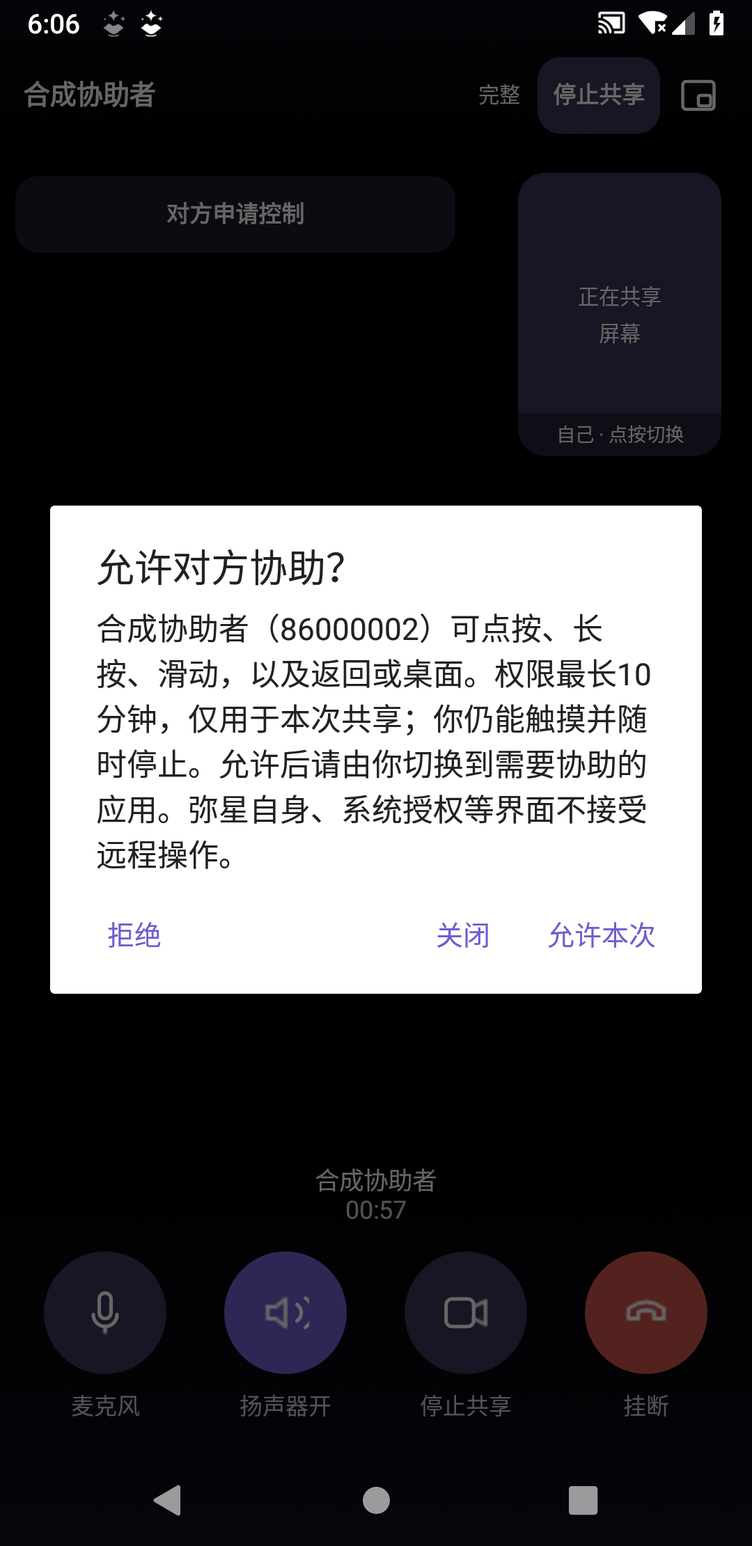
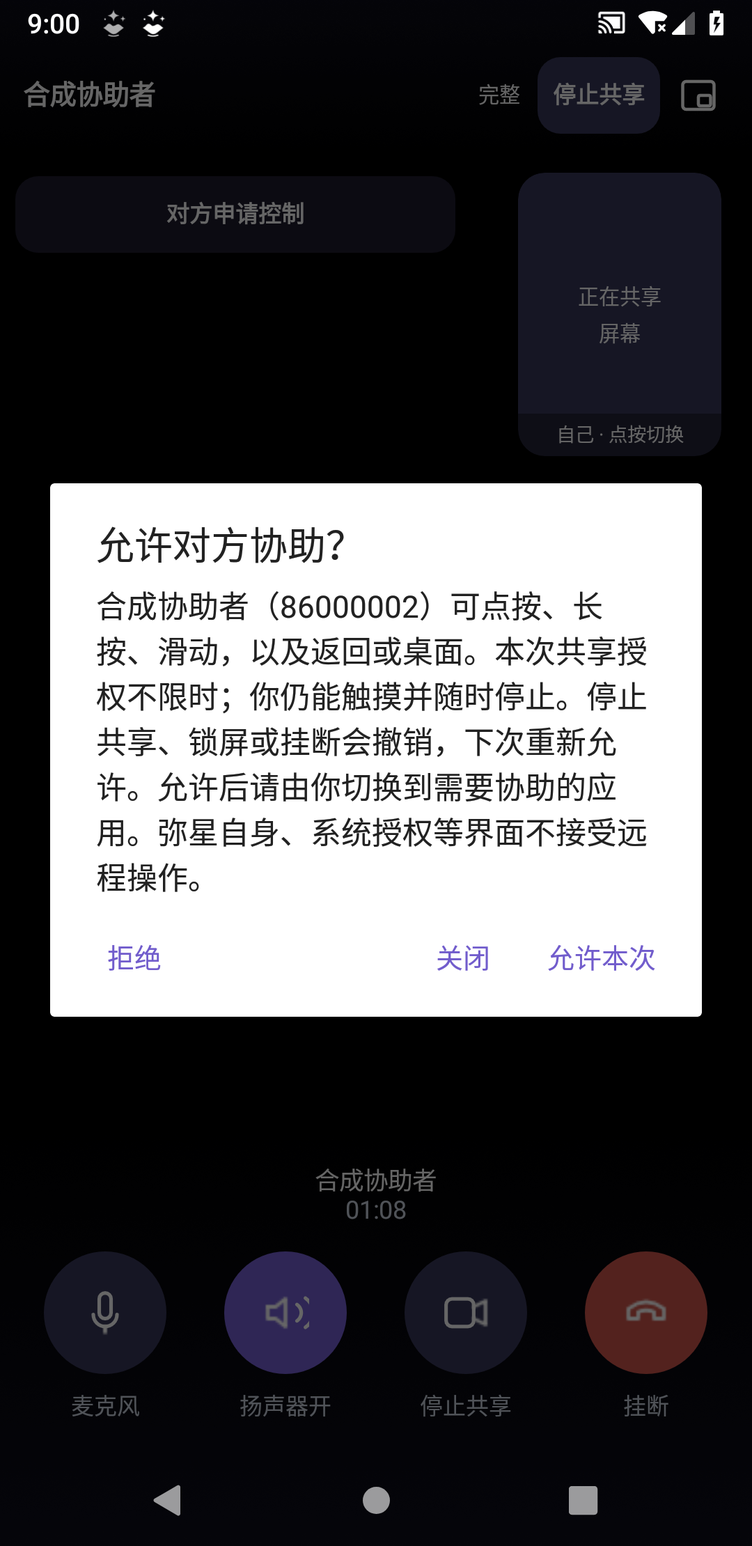
Allow unlimited remote assistance within the current shared-screen session

diff --git a/android/app/src/main/java/cn/qingliao/app/RemoteAssist.kt b/android/app/src/main/java/cn/qingliao/app/RemoteAssist.kt
@@ -10,7 +10,7 @@ import java.util.concurrent.atomic.AtomicBoolean
 import kotlin.math.abs
 
 /** One peer, one explicitly approved direction. Leases live only in this accepted call/engine. */
-internal class RemoteAssist(private val engine:RtcEngine){
+internal class RemoteAssist(private val engine:RtcEngine,private val clock:()->Long=SystemClock::elapsedRealtime){
     private val session=Hub.token
     private val owner=Hub.me.optString("id")
     private val peer=Hub.callUser.optString("id")
@@ -28,7 +28,7 @@ internal class RemoteAssist(private val engine:RtcEngine){
     private var requestUntil=0L
     private var lastRequestAt=-10000L
     private var lastPeerRequestAt=-10000L
-    private data class Lease(val id:String,val request:String,val share:String,val geometry:AssistWire.Geometry,val until:Long,var sequence:Int=0,var lastAction:Long=-10000,var ticket:String="",var ticketAt:Long=0,var previousTicket:String="",var previousAt:Long=0,var confirmed:Boolean=false)
+    private data class Lease(val id:String,val request:String,val share:String,val geometry:AssistWire.Geometry,val ackUntil:Long=0,var sequence:Int=0,var lastAction:Long=-10000,var ticket:String="",var ticketAt:Long=0,var previousTicket:String="",var previousAt:Long=0,var confirmed:Boolean=false)
     private var local:Lease?=null
     private var remote:Lease?=null
     private var waitingUntil=0L
@@ -44,19 +44,18 @@ internal class RemoteAssist(private val engine:RtcEngine){
     val geometry get()=remote?.geometry
     internal fun authorizes(lease:String,geometry:AssistWire.Geometry):Boolean {
         val l=local?:return false
-        return current()&&l.confirmed&&l.id==lease&&l.geometry==geometry&&SystemClock.elapsedRealtime()<l.until&&ScreenSharing.controlShareId(engine)==l.share
+        return current()&&l.confirmed&&l.id==lease&&l.geometry==geometry&&ScreenSharing.controlShareId(engine)==l.share
     }
     private val tick=object:Runnable{override fun run(){
         if(closed)return
         if(!bound()){stopAll("通话状态已改变");return}
         sharingChanged()
-        val now=SystemClock.elapsedRealtime()
-        if(local?.let{!it.confirmed&&now>it.until-AssistWire.LEASE_MS+5000}==true)stopHosting("对方未确认连接，授权已结束")
+        val now=clock()
+        if(local?.let{!it.confirmed&&now>it.ackUntil}==true)stopHosting("对方未确认连接，授权已结束")
         if(!peerSupported&&helloCount<3&&now-helloAt>1000&&send("hello")){helloCount++;helloAt=now}
         local?.let{l->if(now-l.ticketAt>=1000){l.previousTicket=l.ticket;l.previousAt=l.ticketAt;l.ticket=id();l.ticketAt=now;send("ticket",JSONObject().put("lease",l.id).put("ticket",l.ticket))}}
         if(incomingRequest.isNotEmpty()&&now>incomingUntil){incomingRequest="";changed()}
         if(requestId.isNotEmpty()&&now>requestUntil){requestId="";note="申请已过期，可重新申请";changed()}
-        if(remote?.until?.let{now>it}==true)stopControlling("控制授权已到期")
         if(waitingUntil>0&&now>waitingUntil)stopControlling("操作未确认，已停止控制")
         Hub.main.postDelayed(this,500)
     }}
@@ -86,7 +85,7 @@ internal class RemoteAssist(private val engine:RtcEngine){
     private fun send(type:String,body:JSONObject=JSONObject()):Boolean{
         val c=channel?:return false
         if(closed||!bound()||c.state()!=DataChannel.State.OPEN||c.bufferedAmount()>4096)return false
-        body.put("v",1).put("t",type).put("call",call)
+        body.put("v",AssistWire.VERSION).put("t",type).put("call",call)
         val raw=body.toString().toByteArray();if(raw.size>AssistWire.MAX_BYTES)return false
         return runCatching{c.send(DataChannel.Buffer(ByteBuffer.wrap(raw),false))}.getOrDefault(false)
     }
@@ -96,27 +95,27 @@ internal class RemoteAssist(private val engine:RtcEngine){
         if(closed)return
         val share=if(current())ScreenSharing.controlShareId(engine)else null
         local?.let{lease->
-            if(share!=lease.share||!AssistAccessibilityService.available()||!AssistAccessibilityService.unlocked()||AssistAccessibilityService.geometry()!=lease.geometry||SystemClock.elapsedRealtime()>lease.until)stopHosting("协助授权已结束")
+            if(share!=lease.share||!AssistAccessibilityService.available()||!AssistAccessibilityService.unlocked()||AssistAccessibilityService.geometry()!=lease.geometry)stopHosting("协助授权已结束")
         }
         if(remote!=null&&(!current()||engine.remoteVideoMode!="screen"))stopControlling("共享或通话连接已改变")
         val offer=current()&&share!=null&&!hosting&&!controlling
         if(lastOffer!=offer){if(send("offer",JSONObject().put("ready",offer))){lastOffer=offer;changed()}}
     }
     fun requestControl():Boolean {
-        val now=SystemClock.elapsedRealtime()
+        val now=clock()
         if(!current()||!peerSupported||!peerOffers||hosting||controlling||pending||now-lastRequestAt<10000)return false
         lastRequestAt=now;val request=id()
         if(!send("request",JSONObject().put("request",request)))return false
         requestId=request;requestUntil=now+120000;note="等待对方允许";changed();return true
     }
     fun allow(request:String):Boolean{
-        if(!AssistWire.id(request)||!current()||!peerSupported||incomingRequest!=request||SystemClock.elapsedRealtime()>incomingUntil||hosting||controlling||!Hub.foreground||!AssistAccessibilityService.available()||!AssistAccessibilityService.unlocked())return false
+        if(!AssistWire.id(request)||!current()||!peerSupported||incomingRequest!=request||clock()>incomingUntil||hosting||controlling||!Hub.foreground||!AssistAccessibilityService.available()||!AssistAccessibilityService.unlocked())return false
         val share=ScreenSharing.controlShareId(engine)?:return false
-        val lease=Lease(id(),request,share,AssistAccessibilityService.geometry(),SystemClock.elapsedRealtime()+AssistWire.LEASE_MS)
-        lease.ticket=id();lease.ticketAt=SystemClock.elapsedRealtime()
+        val lease=Lease(id(),request,share,AssistAccessibilityService.geometry(),ackUntil=clock()+5000)
+        lease.ticket=id();lease.ticketAt=clock()
         if(!AssistAccessibilityService.begin(this,lease.id))return false
         local=lease
-        if(!send("grant",JSONObject().put("request",request).put("lease",lease.id).put("geometry",lease.geometry.json()).put("ttl",AssistWire.LEASE_MS.toInt()).put("ticket",lease.ticket))){local=null;AssistAccessibilityService.end(this);return false}
+        if(!send("grant",JSONObject().put("request",request).put("lease",lease.id).put("geometry",lease.geometry.json()).put("ttl",0).put("ticket",lease.ticket))){local=null;AssistAccessibilityService.end(this);return false}
         incomingRequest="";note="对方可协助操作，随时可以停止";changed();return true
     }
     fun deny(){val request=incomingRequest;incomingRequest="";if(request.isNotEmpty())send("deny",JSONObject().put("request",request));note="已拒绝本次申请";changed()}
@@ -131,48 +130,49 @@ internal class RemoteAssist(private val engine:RtcEngine){
     private fun stopAll(reason:String){stopHosting(reason);stopControlling(reason);incomingRequest="";peerOffers=false;changed()}
     fun canTouchPeer():Boolean {
         val r=remote?:return false;val size=engine.remoteFrameSize
-        return current()&&Hub.foreground&&engine.remoteVideoMode=="screen"&&SystemClock.elapsedRealtime()<r.until&&size.first>0&&size.second>0&&SystemClock.elapsedRealtime()-engine.remoteFrameAt<2000&&abs(size.first.toDouble()/size.second-r.geometry.width.toDouble()/r.geometry.height)<.02
+        return current()&&Hub.foreground&&engine.remoteVideoMode=="screen"&&size.first>0&&size.second>0&&SystemClock.elapsedRealtime()-engine.remoteFrameAt<2000&&abs(size.first.toDouble()/size.second-r.geometry.width.toDouble()/r.geometry.height)<.02
     }
     fun sendInput(input:AssistWire.Input):Boolean{
-        val lease=remote?:return false;val now=SystemClock.elapsedRealtime()
+        val lease=remote?:return false;val now=clock()
         if(!canTouchPeer()||waitingUntil>0||now-lease.lastAction<300){note="画面更新或操作处理中，请稍后再试";feedback(note);return false}
+        if(lease.sequence==Int.MAX_VALUE){stopControlling("操作序号已用尽，请重新申请");return false}
         val sequence=lease.sequence+1
         if(!send("input",JSONObject().put("lease",lease.id).put("s",sequence).put("ticket",lease.ticket).put("input",input.json()))){stopControlling("协助连接不可用");return false}
         lease.sequence=sequence;lease.lastAction=now;waitingUntil=now+3000;return true
     }
     private fun receive(p:JSONObject){
-        require(bound()&&p.get("v")==1&&p.getString("call")==call)
+        require(bound()&&p.get("v")==AssistWire.VERSION&&p.getString("call")==call)
         val kind=p.getString("t");val base=setOf("v","t","call")
         fun fields(vararg extra:String)=AssistWire.keys(p,base+extra)
         fun nonce(key:String)=p.getString(key).also{require(AssistWire.id(it))}
         when(kind){
             "hello"->{fields();if(!peerSupported){peerSupported=true;send("hello");lastOffer=null;sharingChanged()}}
             "offer"->{fields("ready");require(p.get("ready") is Boolean);val ready=p.getBoolean("ready");if(peerOffers!=ready){peerOffers=ready;changed()}}
-            "request"->{fields("request");val request=nonce("request");val now=SystemClock.elapsedRealtime()
+            "request"->{fields("request");val request=nonce("request");val now=clock()
                 if(current()&&peerSupported&&ScreenSharing.controlShareId(engine)!=null&&!hosting&&!controlling&&now-lastPeerRequestAt>=10000){lastPeerRequestAt=now;incomingRequest=request;incomingUntil=now+120000;note="对方申请协助控制，请由你确认";changed()}
                 else send("deny",JSONObject().put("request",request))
             }
             "deny"->{fields("request");if(nonce("request")==requestId){requestId="";note="对方未允许本次控制";feedback(note)}}
             "cancel"->{fields("request");val request=nonce("request");if(incomingRequest==request){incomingRequest="";note="对方已取消申请";changed()};if(local?.request==request)stopHosting("对方已取消申请")}
-            "grant"->{fields("request","lease","geometry","ttl","ticket");val request=nonce("request");val lease=nonce("lease");val ticket=nonce("ticket");val g=AssistWire.geometry(p.getJSONObject("geometry"));val ttl=AssistWire.integer(p,"ttl",1000,AssistWire.LEASE_MS.toInt())
-                if(current()&&!hosting&&Hub.foreground&&request==requestId&&SystemClock.elapsedRealtime()<=requestUntil){remote=Lease(lease,request,"",g,SystemClock.elapsedRealtime()+ttl,ticket=ticket);requestId="";if(!send("accepted",JSONObject().put("lease",lease))){remote=null;feedback("协助连接不可用");return};note="正在控制对方，点按会操作对方手机";changed()}
+            "grant"->{fields("request","lease","geometry","ttl","ticket");val request=nonce("request");val lease=nonce("lease");val ticket=nonce("ticket");val g=AssistWire.geometry(p.getJSONObject("geometry"));AssistWire.integer(p,"ttl",0,0)
+                if(current()&&!hosting&&Hub.foreground&&request==requestId&&clock()<=requestUntil){remote=Lease(lease,request,"",g,ticket=ticket);requestId="";if(!send("accepted",JSONObject().put("lease",lease))){remote=null;feedback("协助连接不可用");return};note="正在控制对方，点按会操作对方手机";changed()}
                 else if(request==requestId&&!Hub.foreground){stopControlling("已离开控制画面")}
             }
             "accepted"->{fields("lease");local?.takeIf{it.id==nonce("lease")}?.let{it.confirmed=true}}
             "ticket"->{fields("lease","ticket");val token=nonce("ticket");remote?.takeIf{it.id==nonce("lease")}?.ticket=token}
             "revoke"->{fields("lease");if(remote?.id==nonce("lease")){remote=null;waitingUntil=0;note="对方已停止授权";feedback(note)}}
             "release"->{fields("lease");if(local?.id==nonce("lease"))stopHosting("对方已结束控制")}
-            "input"->{fields("lease","s","input","ticket");val leaseId=nonce("lease");val token=nonce("ticket");val sequence=AssistWire.integer(p,"s",1,100000);val input=AssistWire.input(p.getJSONObject("input"));val lease=local?:return
+            "input"->{fields("lease","s","input","ticket");val leaseId=nonce("lease");val token=nonce("ticket");val sequence=AssistWire.integer(p,"s",1,Int.MAX_VALUE);val input=AssistWire.input(p.getJSONObject("input"));val lease=local?:return
                 if(lease.id!=leaseId)return
-                val now=SystemClock.elapsedRealtime()
-                if(!current()||ScreenSharing.controlShareId(engine)!=lease.share||AssistAccessibilityService.geometry()!=lease.geometry||now>lease.until){stopHosting("共享状态已改变");return}
+                val now=clock()
+                if(!current()||ScreenSharing.controlShareId(engine)!=lease.share||AssistAccessibilityService.geometry()!=lease.geometry){stopHosting("共享状态已改变");return}
                 if(sequence!=lease.sequence+1||now-lease.lastAction<300){stopHosting("操作顺序异常，已停止协助");return}
                 lease.sequence=sequence;lease.lastAction=now
                 val born=if(token==lease.ticket)lease.ticketAt else if(token==lease.previousTicket)lease.previousAt else 0L
                 val done:(String)->Unit={result->if(local===lease&&current())send("ack",JSONObject().put("lease",lease.id).put("s",sequence).put("result",result))}
                 if(born<=0||now-born>2500)done("blocked")else AssistAccessibilityService.execute(this,lease.id,input,lease.geometry,born+2500,done)
             }
-            "ack"->{fields("lease","s","result");val sequence=AssistWire.integer(p,"s",1,100000);val result=p.getString("result");require(result in listOf("ok","cancelled","blocked","busy"))
+            "ack"->{fields("lease","s","result");val sequence=AssistWire.integer(p,"s",1,Int.MAX_VALUE);val result=p.getString("result");require(result in listOf("ok","cancelled","blocked","busy"))
                 remote?.takeIf{it.id==nonce("lease")&&it.sequence==sequence}?.let{waitingUntil=0;if(result!="ok"){note=when(result){"blocked"->"此界面不能远程操作，请让对方处理";"busy"->"对方正在操作，请稍后再试";else->"手势被取消，可重新操作"};feedback(note)}else feedback=""}
             }
             else->error("Unknown assistance packet")

diff --git a/android/app/src/androidTest/java/cn/qingliao/app/RemoteAssistTests.kt b/android/app/src/androidTest/java/cn/qingliao/app/RemoteAssistTests.kt
@@ -94,7 +94,13 @@ internal object RemoteAssistTests {
                 return host.packets.last{it.optString("t")=="grant"&&it.optString("request")==request}
             }
             ui{ThemeStore.save(i.targetContext,0xFFFFC107.toInt())};host.autoAcceptGrant=false;var grant=approve();checks++
+            check(grant.getInt("ttl")==0&&grant.getInt("v")==2);checks++
+            var elapsed=0L;ui{set(host.engine.assist,"clock",{SystemClock.elapsedRealtime()+elapsed})}
+            fun advanceHost(by:Long){ui{elapsed=by;(field(host.engine.assist,"tick") as Runnable).run()}}
+            advanceHost(5100);check(!host.engine.assist.hosting);checks++
+            advanceHost(0);grant=approve()
             val initialGeometry=AssistWire.geometry(grant.getJSONObject("geometry"));check(!host.engine.assist.authorizes(grant.getString("lease"),initialGeometry));host.send("accepted",JSONObject().put("lease",grant.getString("lease")));await("peer acknowledges current lease"){state{host.engine.assist.authorizes(grant.getString("lease"),initialGeometry)}};host.autoAcceptGrant=true;checks++
+            for(time in listOf(600001L,86400000L)){advanceHost(time);check(state{host.engine.assist.hosting&&host.engine.assist.authorizes(grant.getString("lease"),initialGeometry)});checks++}
             automation.performGlobalAction(AccessibilityService.GLOBAL_ACTION_HOME);Thread.sleep(900);check(host.engine.assist.hosting);checks++
             target();await("external stop chip"){chipVisible()};capture("owner-stop-overlay")
             check(state{(stopChip() as TextView).currentTextColor==ThemePalette(0xFFFFC107.toInt()).onPrimary});ui{ThemeStore.save(i.targetContext,ThemeStore.DEFAULT)};checks++
@@ -105,6 +111,9 @@ internal object RemoteAssistTests {
                 return host.packets.last{it.optString("t")=="ack"&&it.optInt("s")==n&&it.optString("lease")==lease}
             }
             fun normalized(p:PointF):PointF{val geo=AssistWire.geometry(grant.getJSONObject("geometry"));return PointF(p.x/(geo.width-1),p.y/(geo.height-1))}
+            val beforeLegacy=host.packets.count{it.optString("t")=="ack"}
+            host.send("input",JSONObject().put("lease",grant.getString("lease")).put("ticket",host.tickets[grant.getString("lease")]).put("s",1).put("input",AssistWire.Input("tap",.25f,.3f).json()),version=1)
+            Thread.sleep(250);check(host.packets.count{it.optString("t")=="ack"}==beforeLegacy&&targetNode("合成点按目标")!!.text.toString()=="点按 1");checks++
             val touch=normalized(point(targetNode("合成点按目标")!!));check(command(AssistWire.Input("tap",touch.x,touch.y)).getString("result")=="ok");await("real remote tap"){targetNode("合成点按目标")?.text?.toString()=="点按 2"};checks++
             val long=normalized(point(targetNode("合成长按目标")!!));check(command(AssistWire.Input("long",long.x,long.y,duration=700)).getString("result")=="ok");await("real remote long press"){targetNode("合成长按目标")?.text?.toString()=="长按 1"};checks++
             val swipe=targetNode("合成滑动目标")!!;val area=Rect();swipe.getBoundsInScreen(area);val from=normalized(PointF(area.left+area.width()*.25f,area.top+area.height()*.8f));val to=normalized(PointF(area.left+area.width()*.25f,area.top+area.height()*.2f))
@@ -117,7 +126,7 @@ internal object RemoteAssistTests {
             ui{val old=Hub.callUser;try{Hub.callUser=JSONObject(old.toString()).put("bot",true);check(!host.engine.assist.authorizes(authorizedLease,authorizedGeometry))}finally{Hub.callUser=old}};checks++
             // Duplicate command numbers revoke instead of replaying a potentially destructive operation.
             host.send("input",JSONObject().put("lease",grant.getString("lease")).put("ticket",host.tickets[grant.getString("lease")]).put("s",sequence).put("input",AssistWire.Input("tap",touch.x,touch.y).json()))
-            await("replay revokes"){!host.engine.assist.hosting};checks++
+            await("replay revokes"){!host.engine.assist.hosting};checks++;advanceHost(0)
             grant=approve();target(true);await("password target"){targetNode("合成密码输入")!=null};localTap(point(targetNode("合成密码输入")!!));await("password focus revokes"){!host.engine.assist.hosting};checks++
             grant=approve();target();await("stop chip before revoke"){chipVisible()};val stopPoint=PointF();ui{val chip=stopChip()!!;val p=IntArray(2);chip.getLocationOnScreen(p);stopPoint.set(p[0]+chip.width-3f,p[1]+chip.height/2f)};localTap(stopPoint);await("owner stop revokes"){!host.engine.assist.hosting};checks++
             grant=approve();target();val notice=i.targetContext.getSystemService(NotificationManager::class.java).activeNotifications.first{it.id==108};notice.notification.actions.first{it.title.toString()=="停止共享"}.actionIntent.send()
@@ -125,7 +134,7 @@ internal object RemoteAssistTests {
             openMain();invoke(a!!,"releaseRenderers");host.close();fixture=null;ui{Hub.call=null;Hub.phase=""}
             checks+=AssistControllerTests.run(i,a!!,folder)
             val sha=MessageDigest.getInstance("SHA-256").digest(File(i.targetContext.applicationInfo.sourceDir).readBytes()).joinToString(""){"%02x".format(it.toInt()and 255)}
-            report=JSONObject().put("passed",true).put("checks",checks).put("api",Build.VERSION.SDK_INT).put("apkSha256",sha).put("widthDp",cfg.screenWidthDp).put("heightDp",cfg.screenHeightDp).put("phoneLayout",layout=="phone").put("actualSystemAccessibilityConsent",true).put("actualSystemProjectionConsent",true).put("contentRetrievalCapability",false).put("realOsTapLongSwipe",true).put("ownerStillControls",true).put("staleAndReplayRejected",true).put("localDtlsSctp",true).put("realUserCalls",0).put("physicalDevices",false)
+            report=JSONObject().put("passed",true).put("checks",checks).put("api",Build.VERSION.SDK_INT).put("apkSha256",sha).put("widthDp",cfg.screenWidthDp).put("heightDp",cfg.screenHeightDp).put("phoneLayout",layout=="phone").put("actualSystemAccessibilityConsent",true).put("actualSystemProjectionConsent",true).put("contentRetrievalCapability",false).put("realOsTapLongSwipe",true).put("ownerStillControls",true).put("staleAndReplayRejected",true).put("unlimitedCurrentShare",true).put("simulatedElapsedHours",24).put("ackTimeoutRetained",true).put("protocolV1Rejected",true).put("localDtlsSctp",true).put("realUserCalls",0).put("physicalDevices",false)
             return "PASS remote assistance consent, native gestures and revocation: $checks checks"
         }catch(e:Throwable){runCatching{capture("failure")};File(folder,"failure.txt").writeText(e.stackTraceToString());File(folder,"ui.txt").writeText(allNodes().joinToString("\n"){"${it.packageName}|${it.viewIdResourceName}|${it.className}|${it.text}|${it.contentDescription}"});throw e}
         finally{

diff --git a/android/app/src/androidTest/java/cn/qingliao/app/AssistControllerTests.kt b/android/app/src/androidTest/java/cn/qingliao/app/AssistControllerTests.kt
@@ -42,10 +42,12 @@ internal object AssistControllerTests {
                 val before=h.packets.count{it.optString("t")=="request"}
                 invoke("assistanceMenu");await("outgoing assistance request"){h.engine.assist.pending&&h.packets.count{it.optString("t")=="request"}>before}
                 val request=h.packets.last{it.optString("t")=="request"}.getString("request")
-                val p=JSONObject().put("request",request).put("lease",UUID.randomUUID().toString().replace("-","")).put("geometry",geometry.json()).put("ttl",600000).put("ticket",UUID.randomUUID().toString().replace("-",""))
+                val p=JSONObject().put("request",request).put("lease",UUID.randomUUID().toString().replace("-","")).put("geometry",geometry.json()).put("ttl",0).put("ticket",UUID.randomUUID().toString().replace("-",""))
+                h.send("grant",JSONObject(p.toString()).put("ttl",600000));Thread.sleep(200);check(!h.engine.assist.controlling&&h.engine.assist.pending)
                 h.send("grant",p);await("controller consent result"){h.engine.assist.controlling&&h.engine.assist.canTouchPeer()};return p
             }
             val first=grant(true);val stage=field(a,"callVideoStage") as CallVideoStage
+            ui{h.engine.assist.javaClass.getDeclaredField("clock").apply{isAccessible=true}.set(h.engine.assist,{SystemClock.elapsedRealtime()+86400000});(field(h.engine.assist,"tick") as Runnable).run();check(h.engine.assist.controlling);h.engine.assist.javaClass.getDeclaredField("clock").apply{isAccessible=true}.set(h.engine.assist,{SystemClock.elapsedRealtime()})};checks++
             check(!stage.localIsMain&&!stage.filled&&find("call.scale")!!.isEnabled==false);checks++
             fun freePoints():Pair<PointF,PointF>{
                 val location=IntArray(2);stage.getLocationOnScreen(location);val rect=geometry.videoRect(stage.width,stage.height)

diff --git a/android/app/src/main/java/cn/qingliao/app/MainActivity.kt b/android/app/src/main/java/cn/qingliao/app/MainActivity.kt
@@ -1890,7 +1890,7 @@ class MainActivity : Activity() {
         val ready=AssistAccessibilityService.available();val full=ScreenSharing.controlShareId(engine)!=null
         val request=a.incomingRequest
         val safeName=displayName(Hub.callUser).filter{!it.isISOControl()&&it !in '\u202a'..'\u202e'&&it !in '\u2066'..'\u2069'}.take(32)
-        val description="$safeName（${Hub.callUser.optString("id")}）可点按、长按、滑动，以及返回或桌面。权限最长10分钟，仅用于本次共享；你仍能触摸并随时停止。允许后请由你切换到需要协助的应用。弥星自身、系统授权等界面不接受远程操作。"+(if(!ready)"\n\n首次需要在系统无障碍中开启“弥星远程协助”，返回后再次确认本次允许。开启服务本身不会允许任何人控制。"else"")
+        val description="$safeName（${Hub.callUser.optString("id")}）可点按、长按、滑动，以及返回或桌面。本次共享授权不限时；你仍能触摸并随时停止。停止共享、锁屏或挂断会撤销，下次重新允许。允许后请由你切换到需要协助的应用。弥星自身、系统授权等界面不接受远程操作。"+(if(!ready)"\n\n首次需要在系统无障碍中开启“弥星远程协助”，返回后再次确认本次允许。开启服务本身不会允许任何人控制。"else"")
         val dialog=AlertDialog.Builder(this).setTitle(if(request.isNotEmpty())"允许对方协助？"else"远程协助")
             .setMessage((if(request.isEmpty())"请让对方先点击“远程协助”申请控制。\n\n"else"")+description)
             .setNegativeButton("关闭",null)

diff --git a/android/app/src/androidTest/java/cn/qingliao/app/AssistPeerFixture.kt b/android/app/src/androidTest/java/cn/qingliao/app/AssistPeerFixture.kt
@@ -74,8 +74,8 @@ internal class AssistPeerFixture(private val i:Instrumentation,val callId:String
     fun pauseVideo(){active.set(false)}
     fun resumeVideo(){active.set(true)}
     fun videoMode(mode:String,sequence:Int){modes?.send(DataChannel.Buffer(ByteBuffer.wrap(JSONObject().put("mode",mode).put("seq",sequence).toString().toByteArray()),false))}
-    fun send(type:String,body:JSONObject=JSONObject()):Boolean {
-        body.put("v",1).put("t",type).put("call",callId)
+    fun send(type:String,body:JSONObject=JSONObject(),version:Int=AssistWire.VERSION):Boolean {
+        body.put("v",version).put("t",type).put("call",callId)
         return control?.send(DataChannel.Buffer(ByteBuffer.wrap(body.toString().toByteArray()),false))==true
     }
     override fun close(){

diff --git a/android/app/src/main/java/cn/qingliao/app/AssistWire.kt b/android/app/src/main/java/cn/qingliao/app/AssistWire.kt
@@ -6,9 +6,9 @@ import org.json.JSONObject
 
 /** Small, input-only protocol. No scripts, text/clipboard, file operations or accessibility trees. */
 internal object AssistWire {
-    const val CHANNEL="mistar.remote-assistance.v1"
+    const val CHANNEL="mistar.remote-assistance.v2"
+    const val VERSION=2
     const val MAX_BYTES=1536
-    const val LEASE_MS=600000L
     data class Geometry(val width:Int,val height:Int,val rotation:Int){
         init{require(width in 64..16384&&height in 64..16384&&rotation in 0..3)}
         fun json()=JSONObject().put("w",width).put("h",height).put("r",rotation)

diff --git a/SECURITY.md b/SECURITY.md
@@ -2,11 +2,11 @@
 
 请通过 https://github.com/usera3/mistar/security/advisories/new 私密提交漏洞，不要在公开 Issue 中提交可用凭据或私人聊天。下文说明已实现的保护与实际边界。
 
-## 远程协助（2.15.0）
+## 远程协助（2.15.1）
 
 普通联系人共享整屏时可申请基本手势控制，需机主先开启系统无障碍，再逐次允许；没有无人值守或机器人控制接口。系统开关不会自动开启，进程重启不会恢复授权。服务不检索页面结构、事件文字、通知、按键或剪贴板；只检查当前包名、事件类型、密码焦点和设备状态，用于拒绝已识别的受保护界面。
 
-控制沿用当前通话DTLS/SCTP连接，授权绑定账号、会话、对端、通话、媒体引擎、共享实例和几何，最长10分钟。对端必须确认当前授权才可执行。短时操作凭证、顺序号、单条执行、限速、消息和队列上限用于拒绝延迟积压、重放或畸形输入；实际执行前再次核对权限。停止、锁屏或挂断拒绝新指令，已开始的单条手势最多1.2秒，不能承诺瞬间撤回已执行动作。
+控制沿用当前通话DTLS/SCTP连接，授权绑定账号、会话、对端、通话、媒体引擎、共享实例和几何；本次共享授权不限时，仅保留在内存中，不保存跨通话信任。对端必须在5秒内确认当前授权才可执行；2分钟申请期限仍保留。v2协议的`ttl=0`表示本次共享无时间上限，双方需升级2.15.1，旧版协助报文不能升级为新授权。短时操作凭证、顺序号、单条执行、限速、消息和队列上限用于拒绝延迟积压、重放或畸形输入；实际执行前再次核对权限。停止、锁屏或挂断拒绝新指令，已开始的单条手势最多1.2秒，不能承诺瞬间撤回已执行动作。
 
 这仍是对通话对方授予操作手机的能力。对方能看到共享画面、点击你打开的应用；不提供文件接口不意味着对方无法通过应用界面看到内容。已识别的系统/密码限制不覆盖每个厂商或每个应用的全部敏感界面。只对信任的人允许，并在敏感操作前停止。详细流程和验证环境见 [REMOTE_ASSISTANCE.md](REMOTE_ASSISTANCE.md)。本功能未经过独立安全审计。
 

diff --git a/README.md b/README.md
@@ -16,7 +16,7 @@
 - **消息操作**：深灰双排长按浮层、原生文字选区及部分复制、引用、删除/撤回、多选、批量删除和逐条转发；转发附件重新加密。
 - **输入与语音**：功能/表情抽屉、向右滑动引用；语音暂停续播、拖动与1/1.5/2倍速；录音试听、手动发送及当前页面失败重试，60秒上限不会自动发送。
 - **音视频**：视频铺满窗口、点击隐藏操作栏、小窗交换双方画面、完整/铺满切换；屏幕共享、桌面系统画中画、断线与忙线反馈。
-- **远程协助**：普通联系人共享整屏后逐次授权，对方可点按、长按、滑动和返回/桌面；保留本机操作、持续停止浮条，挂断或停止共享撤销。首次需机主开启系统无障碍，服务不检索页面文字，详见 [使用与边界](REMOTE_ASSISTANCE.md)。
+- **远程协助**：普通联系人共享整屏后逐次授权，本次共享内不限时；对方可点按、长按、滑动和返回/桌面。保留本机操作、持续停止浮条，挂断或停止共享撤销。双方需2.15.1，首次需机主开启系统无障碍，服务不检索页面文字，详见 [使用与边界](REMOTE_ASSISTANCE.md)。
 - **语音转文字**：长按语音选择“转文字”即开始，原消息下展示进度与文字；另有麦克风听写、预览和手动发送。
 - **好友动态**：文字、图片、视频、语音、视频静态封面、点赞、评论及草稿。公共广场默认关闭。
 - **个人与主题**：头像裁剪、昵称、自选主题颜色；默认紫色星光与岛屿风格。

diff --git a/CHANGELOG.md b/CHANGELOG.md
@@ -1,5 +1,12 @@
 # 版本记录
 
+## 2.15.1 · 2026-10-31
+
+- 按机主设置要求，移除远程协助双方的10分钟授权限制；本次共享内允许一次后不限时，直至主动停止或共享/通话状态改变。
+- 保留锁屏、停止共享、挂断、连接/共享范围变化和服务关闭时撤销；下次共享仍由机主重新允许。
+- 将对端5秒确认期限与授权时长分离，保留2分钟申请期限及短时指令凭证；使用v2协助通道，双方需升级。
+- 更新允许界面和说明；在手机/手表模拟器中覆盖模拟经过10分钟及24小时、未确认撤销、旧版报文拒绝和原有停止流程。
+
 ## 2.15.0 · 2026-10-31
 
 - 新增普通联系人视频共享中的远程协助：申请、逐次允许与撤销，支持点按、长按、直线滑动和对方返回/桌面。
